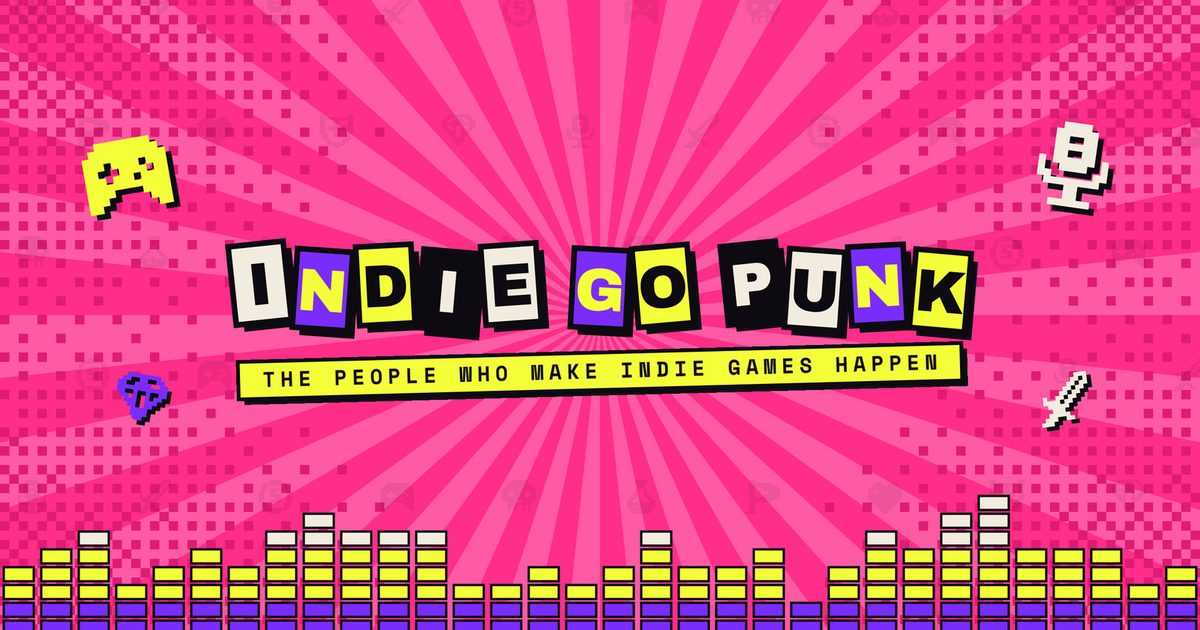
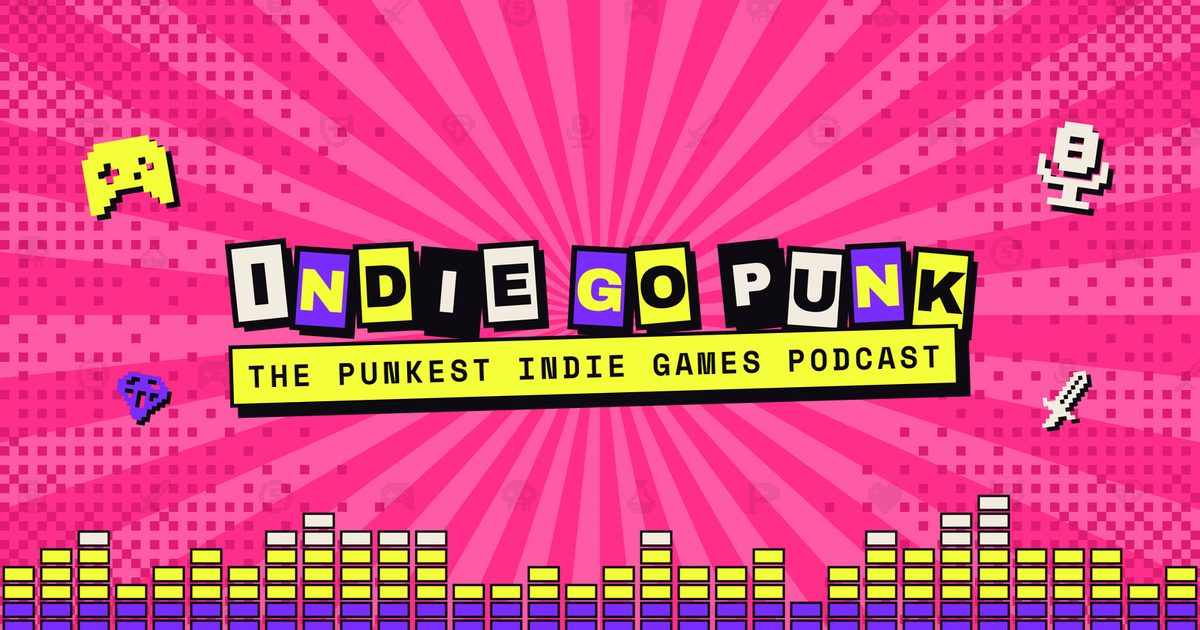
brand: tagline is 'The punkest indie games podcast' across the home page and share image
Claude-Session: https://claude.ai/code/session_01GvJjTa6SyBbxzarYu2gwr1

Changed region(s): [[0.185, 0.5127, 0.8325, 0.6635]]

diff --git a/index.html b/index.html
@@ -3,33 +3,33 @@
 <head>
 <meta charset="utf-8">
 <meta name="viewport" content="width=device-width, initial-scale=1">
-<title>Indie Go Punk | A podcast about indie game studios</title>
-<meta name="description" content="Indie Go Punk is a podcast about indie game studios. Founders talk about making their games, getting players and shipping. Plus a free game jam calendar.">
+<title>Indie Go Punk | The punkest indie games podcast</title>
+<meta name="description" content="The punkest indie games podcast. Founders talk about making their games, getting players and shipping. Plus a free game jam calendar.">
 <link rel="canonical" href="https://indiegopunk.com/">
 <meta name="robots" content="index, follow, max-image-preview:large">
 <meta property="og:type" content="website">
 <meta property="og:site_name" content="Indie Go Punk">
 <meta property="og:locale" content="en_US">
-<meta property="og:title" content="Indie Go Punk | A podcast about indie game studios">
-<meta property="og:description" content="Indie founders, unfiltered. Conversations about making, marketing and shipping indie games.">
+<meta property="og:title" content="Indie Go Punk | The punkest indie games podcast">
+<meta property="og:description" content="The punkest indie games podcast. Indie founders, unfiltered.">
 <meta property="og:url" content="https://indiegopunk.com/">
 <meta property="og:image" content="https://indiegopunk.com/og-home.jpg">
 <meta property="og:image:secure_url" content="https://indiegopunk.com/og-home.jpg">
 <meta property="og:image:type" content="image/jpeg">
 <meta property="og:image:width" content="1200">
 <meta property="og:image:height" content="630">
-<meta property="og:image:alt" content="Indie Go Punk: the people who make indie games happen">
+<meta property="og:image:alt" content="Indie Go Punk: the punkest indie games podcast">
 <meta name="twitter:card" content="summary_large_image">
-<meta name="twitter:title" content="Indie Go Punk | A podcast about indie game studios">
-<meta name="twitter:description" content="Indie founders, unfiltered. Conversations about making, marketing and shipping indie games.">
+<meta name="twitter:title" content="Indie Go Punk | The punkest indie games podcast">
+<meta name="twitter:description" content="The punkest indie games podcast. Indie founders, unfiltered.">
 <meta name="twitter:image" content="https://indiegopunk.com/og-home.jpg">
-<meta name="twitter:image:alt" content="Indie Go Punk: the people who make indie games happen">
+<meta name="twitter:image:alt" content="Indie Go Punk: the punkest indie games podcast">
 <link rel="alternate" type="text/calendar" title="Game jams" href="calendars/jams.ics">
 <script type="application/ld+json">
 {"@context":"https://schema.org","@graph":[
  {"@type":"WebSite","@id":"https://indiegopunk.com/#site","url":"https://indiegopunk.com/","name":"Indie Go Punk","inLanguage":"en"},
  {"@type":"PodcastSeries","@id":"https://indiegopunk.com/#podcast","url":"https://indiegopunk.com/","name":"Indie Go Punk",
-  "description":"A podcast about indie game studios. Founders talk about making their games, getting players and shipping.",
+  "description":"The punkest indie games podcast. Founders talk about making their games, getting players and shipping.",
   "image":"https://indiegopunk.com/og-home.jpg","inLanguage":"en",
   "sameAs":["https://www.youtube.com/@indiegopunk","https://www.instagram.com/indiegopunk/"]},
  {"@type":"WebPage","url":"https://indiegopunk.com/calendars/","name":"Game Jam Calendar","isPartOf":{"@id":"https://indiegopunk.com/#site"}}
@@ -153,7 +153,7 @@ body::before { content: ""; position: fixed; inset: 0; z-index: -1; pointer-even
   </div>
 
   <h1>Indie founders. <em>Unfiltered.</em></h1>
-  <p>A podcast about indie game studios. Founders talk about making their games, getting players, and the wishlists nobody sees.</p>
+  <p>The punkest indie games podcast. Founders talk about making their games, getting players, and the wishlists nobody sees.</p>
 
   <div class="actions top-actions">
     <a class="btn sub" href="https://www.youtube.com/@indiegopunk?sub_confirmation=1" rel="noopener">Subscribe</a>
